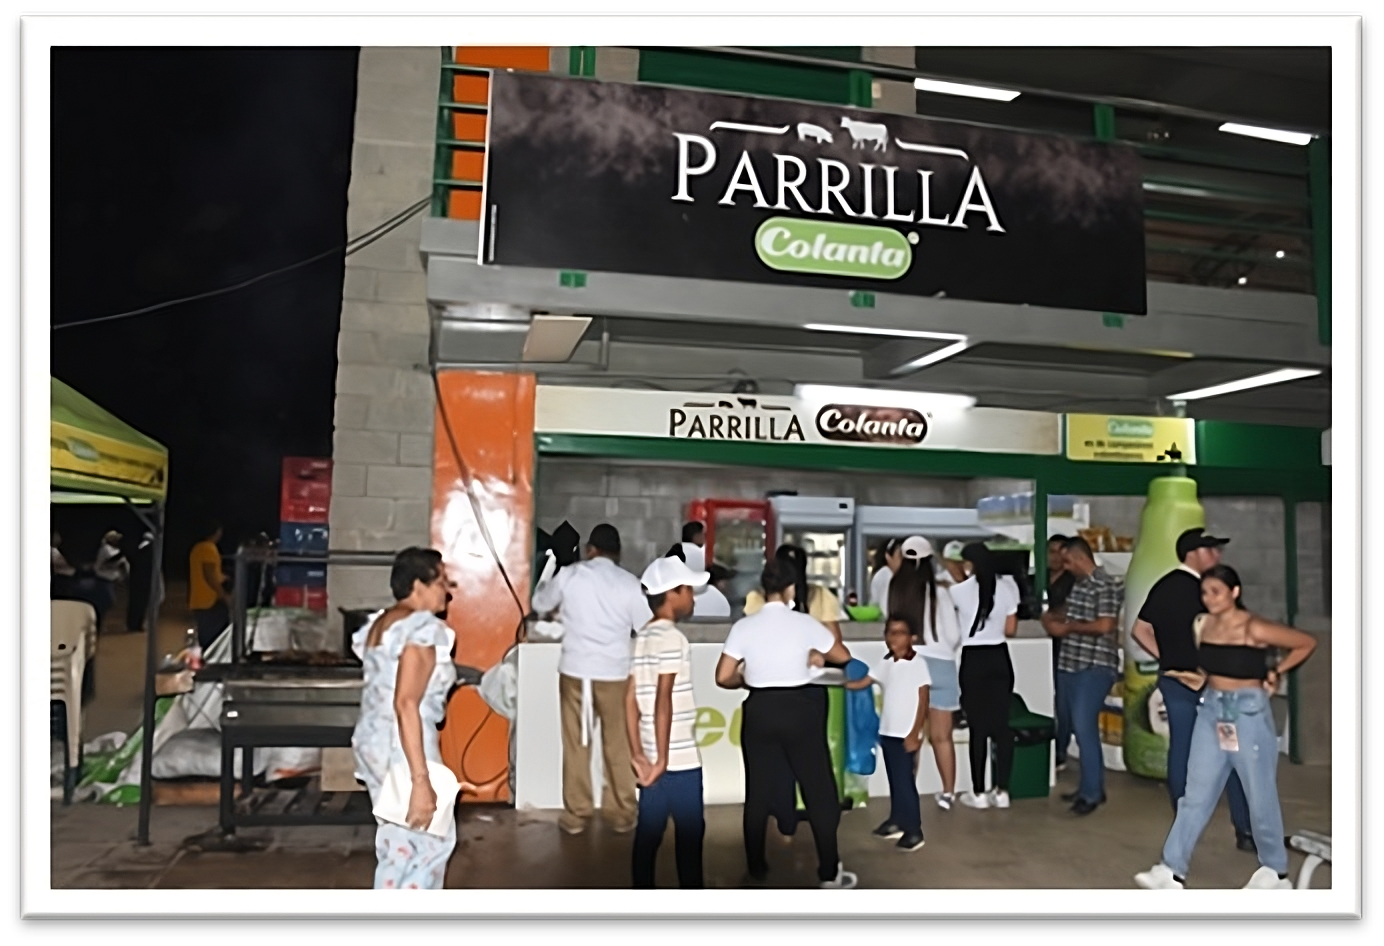
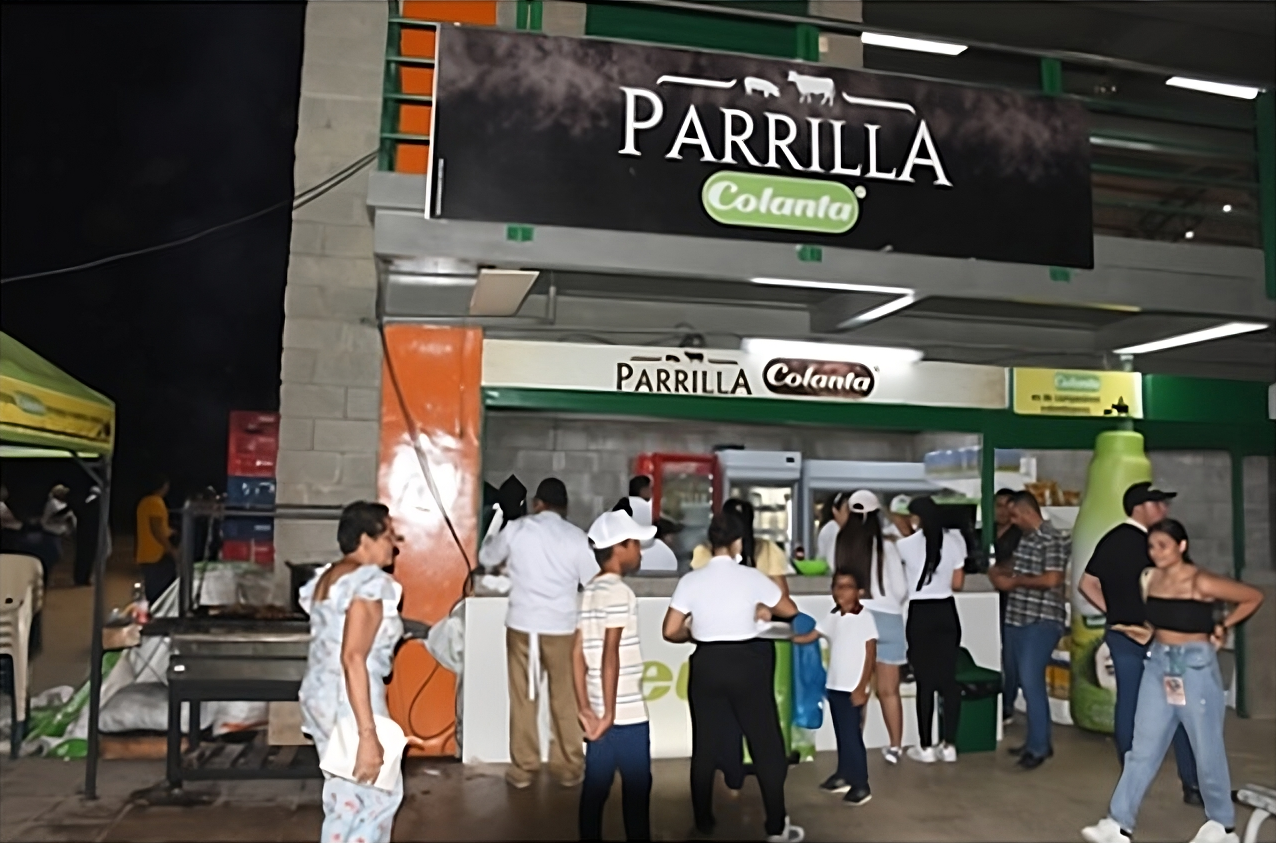
commit #22

diff --git a/Pages/Portafolio.jsx b/Pages/Portafolio.jsx
@@ -4,7 +4,7 @@ import img from "../src/IMGS/img-titulos.png"
 import op1 from "../src/IMGS/OPCION1.png"
 import op2 from "../src/IMGS/OPCION2.png"
 import backing from "../src/IMGS/backing.png"
-import comida from "../src/IMGS/zonacomida.png"
+import comida from "../src/IMGS/zonaeat.png"
 import Sesion5 from '../src/componentes/Sesion5'
 import Footer from '../src/componentes/Footer'
 import ScrollToTop from '../src/componentes/ScollToTop'
@@ -20,13 +20,14 @@ const Portafolio = () => {
       </div>
       <div className='contenedor flex flex-col mt-10 mx-5 lg:mx-20'>
         <p className='feria font-bold lg:text-5xl text-base-verde-oscuro'>Portafolio</p>
-        <div className='lg:text-xl'>
+        
+        <div className='lg:text-xl mt-5'>
           <p className="font-bold">
             En la Feria, vemos los adelantos genéticos logrados por los<br />
             distintos expositores y la tecnología de punta aplicada al campo
           </p>
           <p className='mt-10'>
-            La 44° Feria de Exposición Ganadera y Agroindustrial Valledupar 2022 es un evento organizado por Corfedupar: <br />en las instalaciones del Coliseo de Ferias Pedro Castro Monsalvo el cual cada año busca impulsar el sector ganadero y agroindustrial de nuestra región donde propios y extraños tienen la oportunidad de admirar el mejor ganado del país, Juzgamiento de las razas Brahman, Gyr, F1y sus cruces Guzera y Doble, Feria Equina Grado B, la mejor muestra agroindustrial, folclórica y cultural.
+            La 44° Feria de Exposición Ganadera y Agroindustrial Valledupar 2025 es un evento organizado por Corfedupar: <br />en las instalaciones del Coliseo de Ferias Pedro Castro Monsalvo el cual cada año busca impulsar el sector ganadero y agroindustrial de nuestra región donde propios y extraños tienen la oportunidad de admirar el mejor ganado del país, Juzgamiento de las razas Brahman, Gyr, F1y sus cruces Guzera y Doble, Feria Equina Grado B, la mejor muestra agroindustrial, folclórica y cultural.
           </p>
           <p className='mt-5'>
             De su mano, continuaremos construyendo la historia de nuestras raíces ganaderas y agroindustriales que  cumplen 45 años de tradición en el Cesar y en la región de la costa caribe
@@ -47,7 +48,7 @@ const Portafolio = () => {
         <div className='OPCION#1 flex flex-col lg:flex-row justify-between mt-6 mb-8'>
           <div>
             <p className='text-base-verde-oscuro font-bold text-lg lg:text-4xl feria'>Opción 1</p>
-            <p className="mt-4 font-[700] text-sm lg:text-xl">Stand Comercial Zona Alterna - Ingreso</p>
+            <p className="font-[700] text-sm lg:text-xl">Stand Comercial Zona Alterna - Ingreso</p>
             <p className="mt-4 font-[700] text-sm lg:text-xl">INCLUYE:</p>
             <ul className='mt-5 lg:text-xl'>
               <li> * Mesa de trabajo (rimax).</li>
@@ -65,7 +66,7 @@ const Portafolio = () => {
         <div className='OPCION#2 flex flex-col lg:flex-row justify-between mt-6 mb-8'>
           <div>
             <p className='text-base-verde-oscuro font-bold text-lg lg:text-4xl feria'>Opción 2</p>
-            <p className="mt-4 font-[700] text-sm lg:text-xl">Zona De Vehículos Entrada Alterna Y Maquinaria <br /> Plazoleta Coliseo Multipropósito</p>
+            <p className="font-[700] text-sm lg:text-xl">Zona De Vehículos Entrada Alterna Y Maquinaria <br /> Plazoleta Coliseo Multipropósito</p>
             <p className="mt-4 font-[700] text-sm lg:text-xl">INCLUYE:</p>
             <ul className='mt-5 lg:text-xl'>
               <li> * Mesa De Trabajo (Rimax).</li>
@@ -81,11 +82,11 @@ const Portafolio = () => {
         <div className='BACKING flex flex-col lg:flex-row justify-between mt-6 mb-8'>
           <div className='lg:w-[50%]'>
             <p className='text-base-verde-oscuro font-bold text-lg lg:text-4xl feria'>Backing</p>
-            <p className="mt-4 font-[700] text-sm lg:text-xl">De 4X3 Metros En Pista De Juzgamiento Y Dummy</p>
+            <p className="font-[700] text-sm lg:text-xl">De 4X3 Metros En Pista De Juzgamiento Y Dummy</p>
             <p className="mt-4 font-[700] text-sm lg:text-xl">BACKING:</p>
             <ul className='mt-5'>
               <li className='lg:text-2xl'>Imagen Editable Entregada Por El Cliente. <br /> Valor: $5.000.000.</li>
-              <li className='lg:text-2xl mt-10'>El Costo Del Espacio Varia De Acuerdo Al Producto A Promocionar.</li>
+              <li className='lg:text-2xl '>El Costo Del Espacio Varia De Acuerdo Al Producto A Promocionar.</li>
             </ul>
           </div>
           <img className='lg:w-[40%] mt-7 lg:mt-0 rounded-xl shadow-2xl' src={backing} alt="" />
@@ -94,13 +95,13 @@ const Portafolio = () => {
         <div className='ZONACOMIDA flex flex-col lg:flex-row justify-between mt-6 mb-8'>
           <div>
             <p className='text-base-verde-oscuro font-bold text-lg lg:text-4xl feria'>Zona de comida</p>
-            <p className="mt-4 font-[700] text-sm lg:text-2xl">Coliseo multiproposito luis alberto monsalvo ramirez</p>
+            <p className="mt-4 font-[700] text-sm lg:text-2xl">Coliseo multipropósito Luis Alberto Monsalvo Ramirez</p>
             <ul className='mt-5'>
               <li className='lg:text-2xl'>Es un espacio aproximado de 3x4; que tiene lavaplato; <br /> abanico de techo.
-                Y un espacion en frente del stand <br />
+                Y un espacio en frente del stand <br />
                 para colocar mesas y sillas</li>
               <li className='lg:text-2xl mt-10'>Dumis: entregados por el cliente para ser ubicados, <br />
-                de acuerdo el tamaño sera el valor.</li>
+                de acuerdo el tamaño será el valor.</li>
             </ul>
           </div>
           <img className='lg:w-[40%] mt-7 lg:mt-0 rounded-xl shadow-2xl' src={comida} alt="" />

diff --git a/Pages/Corfedupar.jsx b/Pages/Corfedupar.jsx
@@ -16,9 +16,10 @@ const Corfedupar = () => {
                 <p className='text-white font-bold lg:text-5xl absolute'>SOBRE LA FERIA</p>
             </div>
             <div className=' mx-5 lg:mx-20 mt-20 mb-30 lg:mb-70'>
-                <p className='feria font-bold lg:text-5xl text-base-verde-oscuro'>Corfedupar</p>
-                <div className='flex flex-col lg:flex-row gap-5 items-center mt-10'>
+               
+                <div className='flex flex-col lg:flex-row gap-5 mt-10'>
                     <div className='w-full lg:w-[50%]'>
+                         <p className='feria font-bold lg:text-5xl text-xl text-base-verde-oscuro mb-10'>Corfedupar</p>
                         <span className='font-bold'>La Corporación Agropecuaria de Ferias y Exposiciones de Valledupar</span> – CORFEDUPAR es una entidad privada sin ánimo de lucro, con personería jurídica inscrita en la Cámara de Comercio de Valledupar desde el 4 de febrero de 1998 bajo el número de matrícula 0500451. No obstante, su historia se remonta mucho más atrás: fue en abril de 1975, en el marco del Festival Vallenato, cuando se llevó a cabo su primer evento ferial, marcando así el nacimiento de una de las plataformas más importantes para el sector agropecuario del país.
 <br />
 <br />

diff --git a/Pages/ValoresComerciales.jsx b/Pages/ValoresComerciales.jsx
@@ -24,11 +24,11 @@ const ValoresComerciales = () => {
                 <li> - Presencia de su marca en:</li>
                 <li> - Afiche Promocional impreso</li>
                 <li> -  Programa de mano</li>
-                <li> - Piezaspromocionales del evento en redes sociales</li>
+                <li> - Piezas promocionales del evento en redes sociales</li>
                 <li> - Logo en pantalla</li>
                 <li> - Mención en tarima como Patrocinador oficial</li>
                 <li> - Momento de marca</li>
-                <li> - Zonade experiencia</li>
+                <li> - Zona de experiencia</li>
                 <li> - Acreditaciones</li>
                 <li> - Área de parqueo</li>
               </ul>

diff --git a/src/componentes/Sesion6.jsx b/src/componentes/Sesion6.jsx
@@ -18,10 +18,10 @@ const Sesion6 = () => {
   const [selectedImage, setSelectedImage] = useState(null);
 
   return (
-    <div className="mx-2 md:mx-10 mt-10 flex flex-col gap-3 lg:gap-10">
+    <div className="mx-2 md:mx-10 mt-10 flex flex-col lg:gap-10">
       {/* Mostrar galería */}
       {[0, 3, 6, 9].map((startIdx) => (
-        <div key={startIdx} className='flex justify-center w-full gap-[3%] h-[100px] lg:h-[300px]'>
+        <div key={startIdx} className='flex justify-center w-full gap-[2%] h-[100px] lg:h-[300px]'>
           {images.slice(startIdx, startIdx + 3).map((img, i) => (
             <img
               key={i}

diff --git a/Pages/Organihrama.jsx b/Pages/Organihrama.jsx
@@ -1,7 +1,7 @@
 import React from 'react'
 import { BarraPrincipal } from '../src/componentes/BarraPrincipal'
 import img from "../src/IMGS/img-titulos.png"
-import ORGA from "../src/IMGS/organi.png"
+import ORGA from "../src/IMGS/organigrama 2.png"
 import Footer from '../src/componentes/Footer'
 import ScrollToTop from '../src/componentes/ScollToTop'
 

diff --git a/src/componentes/Sesion4.jsx b/src/componentes/Sesion4.jsx
@@ -1,7 +1,7 @@
 import React from 'react'
 import CardSesion3 from '../componentes/CardSesion3'
 // Servicios
-import ser1 from "../IMGS/servicio 1.jpg"
+import ser1 from "../IMGS/galeria1.JPG"
 import ser2 from "../IMGS/subasta.JPG"
 import ser3 from "../IMGS/servicio 3.jpg"
 import ser4 from "../IMGS/servicio 4.jpg"
